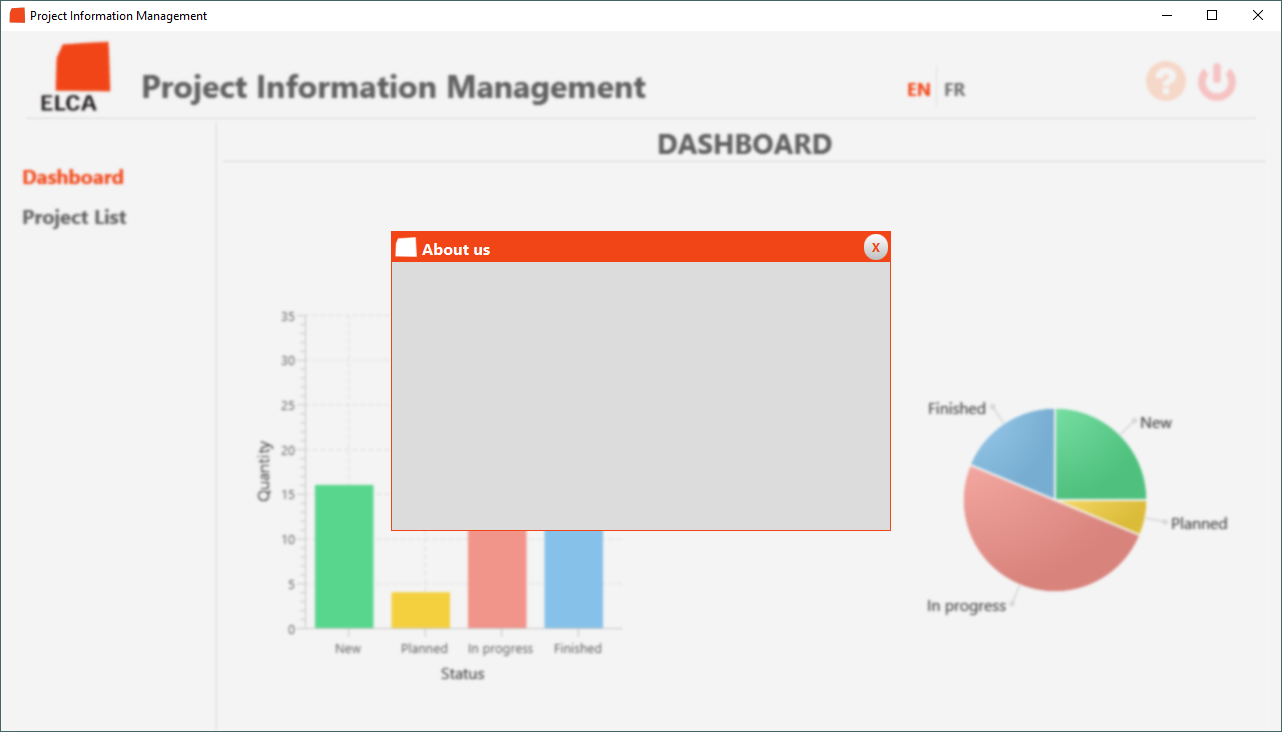
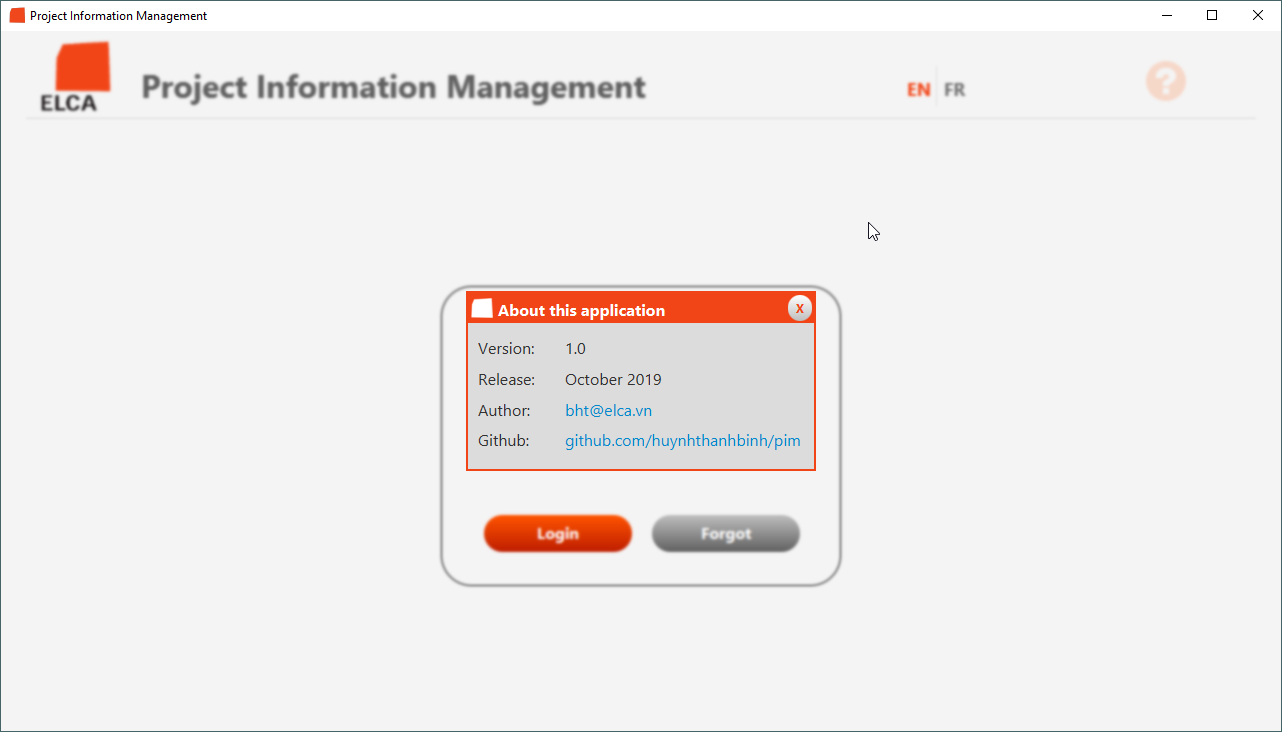
[client] help dialog finished + turn off logging

diff --git a/CLIENT/src/main/java/com/bht/pim/dialog/content/HelpDialogContent.css b/CLIENT/src/main/java/com/bht/pim/dialog/content/HelpDialogContent.css
@@ -1,0 +1,17 @@
+#github {
+    -fx-text-fill: #0088CC;
+}
+
+#github:hover {
+    -fx-underline: true;
+    -fx-cursor: hand;
+}
+
+#author {
+    -fx-text-fill: #0088CC;
+}
+
+.label {
+    -fx-font-family: "Segoe UI";
+    -fx-font-size: 16;
+}

diff --git a/CLIENT/src/main/java/com/bht/pim/dialog/base/HelpDialog.java b/CLIENT/src/main/java/com/bht/pim/dialog/base/HelpDialog.java
@@ -1,32 +1,68 @@
 package com.bht.pim.dialog.base;
 
+import java.awt.*;
 import java.io.IOException;
+import java.net.URI;
+import java.net.URISyntaxException;
 
 import org.springframework.context.annotation.DependsOn;
 
 import com.bht.pim.base.BaseDialog;
+import com.bht.pim.dialog.content.HelpDialogContent;
+import com.bht.pim.util.LanguageUtil;
 import com.bht.pim.util.LoadingUtil;
 
+import javafx.fxml.FXML;
+import javafx.scene.layout.AnchorPane;
 import javafx.scene.layout.Pane;
+import javafx.util.Pair;
+import lombok.extern.log4j.Log4j;
 
 /**
  *
  * @author bht
  */
+@Log4j
 @DependsOn("languageProperty")
 public final class HelpDialog extends BaseDialog {
 
     private static final String CONTENT_PATH = "dialog/content/HelpDialogContent.fxml";
 
+    @FXML
+    private HelpDialogContent helpDialogContent;
+
     @Override
     public void initialize() throws IOException {
         super.initialize();
+        initAllLabels();
         setDialogTitle("label.dialog.help.title");
-        setDialogSize(600, 300);
+        setDialogSize(350, 180);
     }
 
     @Override
     protected Pane getDialogContent() throws IOException {
-        return LoadingUtil.loadFXML(CONTENT_PATH).getKey();
+        Pair<AnchorPane, HelpDialogContent> loader = LoadingUtil.loadFXML(CONTENT_PATH);
+        helpDialogContent = loader.getValue();
+        return loader.getKey();
+    }
+
+    private void initAllLabels() {
+        LanguageUtil.initLabel(helpDialogContent.getLVersion().textProperty(), "label.dialog.help.version");
+        LanguageUtil.initLabel(helpDialogContent.getLRelease().textProperty(), "label.dialog.help.release");
+        LanguageUtil.initLabel(helpDialogContent.getLAuthor().textProperty(), "label.dialog.help.author");
+    }
+
+    @Override
+    protected void addAllEventListeners() {
+        super.addAllEventListeners();
+        helpDialogContent.getGithub().setOnMouseClicked(event -> {
+            try {
+                URI uri = new URI("http://" + helpDialogContent.getGithub().getText());
+                Desktop.getDesktop().browse(uri);
+
+            } catch (IOException | URISyntaxException e) {
+                log.error(e);
+            }
+        });
     }
 }

diff --git a/CLIENT/src/main/java/com/bht/pim/dialog/content/HelpDialogContent.java b/CLIENT/src/main/java/com/bht/pim/dialog/content/HelpDialogContent.java
@@ -2,9 +2,26 @@ package com.bht.pim.dialog.content;
 
 import com.bht.pim.base.BaseDialogContent;
 
+import javafx.fxml.FXML;
+import javafx.scene.control.Label;
+import lombok.Getter;
+
 /**
  *
  * @author bht
  */
+@Getter
 public class HelpDialogContent extends BaseDialogContent {
+
+    @FXML
+    private Label author;
+    @FXML
+    private Label github;
+
+    @FXML
+    private Label lVersion;
+    @FXML
+    private Label lRelease;
+    @FXML
+    private Label lAuthor;
 }
